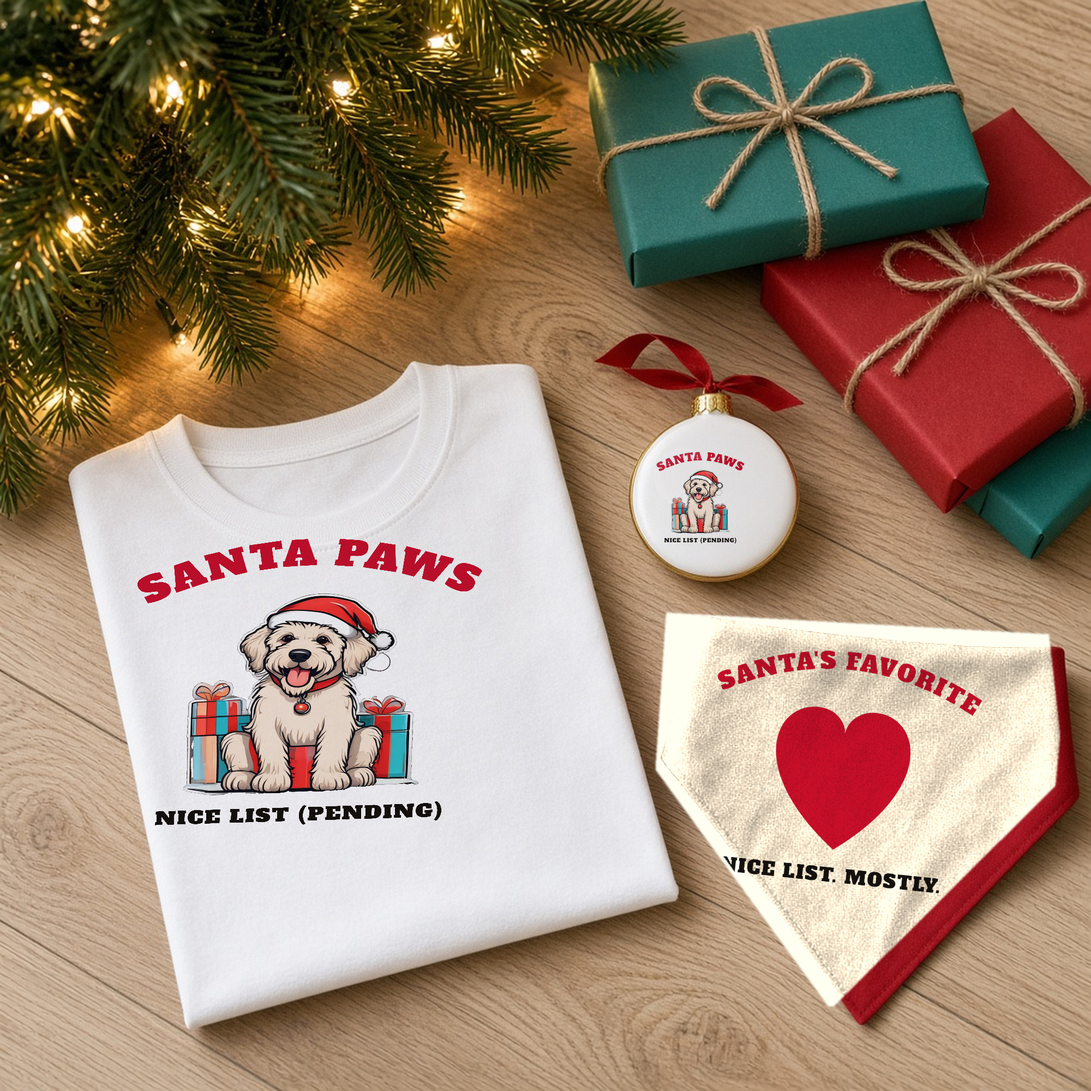
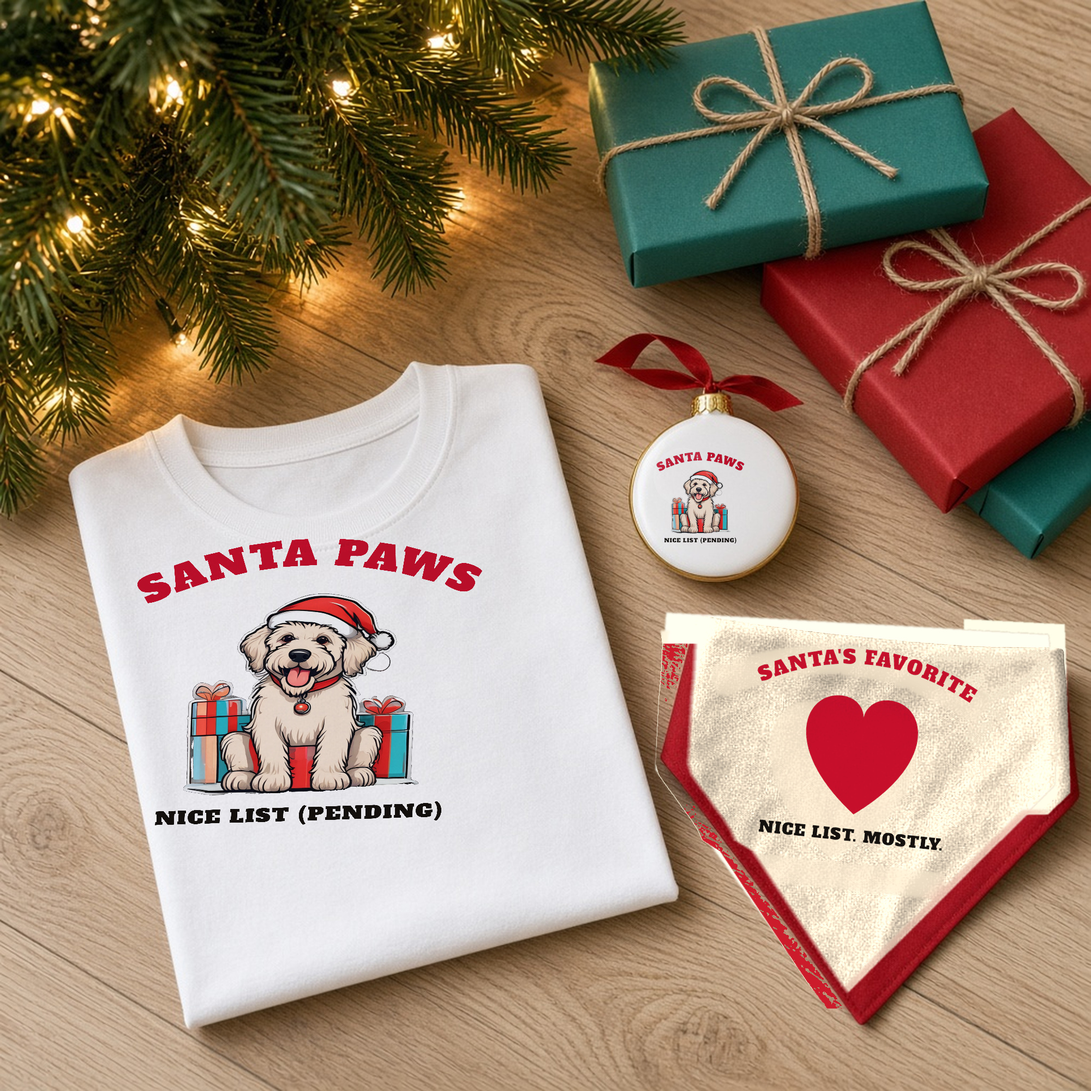
Etsy Studio: fixed flatlay, Christmas social crops

Changed region(s): [[0.589, 0.558, 0.992, 0.93]]

diff --git a/TASKS.md b/TASKS.md
@@ -87,12 +87,13 @@ Source: [etsy-shop/ads/christmas-pins.md](etsy-shop/ads/christmas-pins.md) and [
 
 ### Christmas images from Product Designer
 
-Files: [etsy-shop/design/christmas/ornaments/](etsy-shop/design/christmas/ornaments/) and [etsy-shop/design/christmas/lifestyle/](etsy-shop/design/christmas/lifestyle/).
+Files: [etsy-shop/design/christmas/ornaments/](etsy-shop/design/christmas/ornaments/), [etsy-shop/design/christmas/lifestyle/](etsy-shop/design/christmas/lifestyle/), and [etsy-shop/design/christmas/social/](etsy-shop/design/christmas/social/).
 
 - Upload the Snow, Mom and Dad ornament mockups to their Etsy listing drafts.
 - Use `L-bundle-ornament-tree.jpg` as the hero thumbnail for the Santa Paws ornament and the bundle. It stays the hero thumbnail.
-- Do NOT use `L-bundle-flatlay.jpg` yet. A fold cuts the N in "NICE LIST" so it reads as "VICE LIST". A corrected file is coming.
-- `L-bundle-person-dog` and `L-bundle-unboxing` are now cleaned and fine as secondary photos, not thumbnails. They can go on the Santa Paws tee, ornament, and bandana.
+- `L-bundle-flatlay.jpg` is fixed and approved as a secondary photo, and the hold is lifted. "NICE LIST" now reads correctly. It can go on the Santa Paws tee, ornament, and bandana. It is not a thumbnail.
+- `L-bundle-person-dog` and `L-bundle-unboxing` are cleaned and fine as secondary photos, not thumbnails. They can go on the Santa Paws tee, ornament, and bandana.
+- Social crops for the posting pack (square, Pinterest 1000×1500, TikTok 1080×1920) are in `etsy-shop/design/christmas/social/`.
 - These are AI scenes with the real print art composited in. Keep the AI-assisted disclosure in the listings.
 - Full-res PNGs are on the shared box at `/workspace/etsy-design/christmas/`.
 - Valentine art (8 merch, 3 printable covers) is on the box at `/workspace/etsy-design/valentines/` for the Jan 4 drafts.
